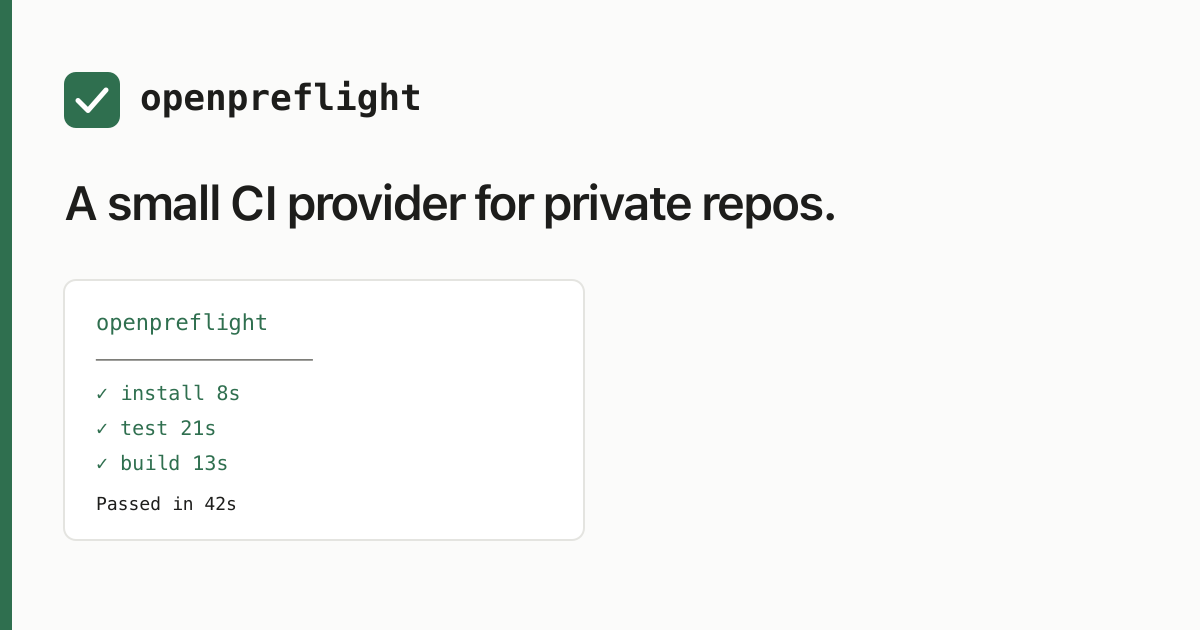
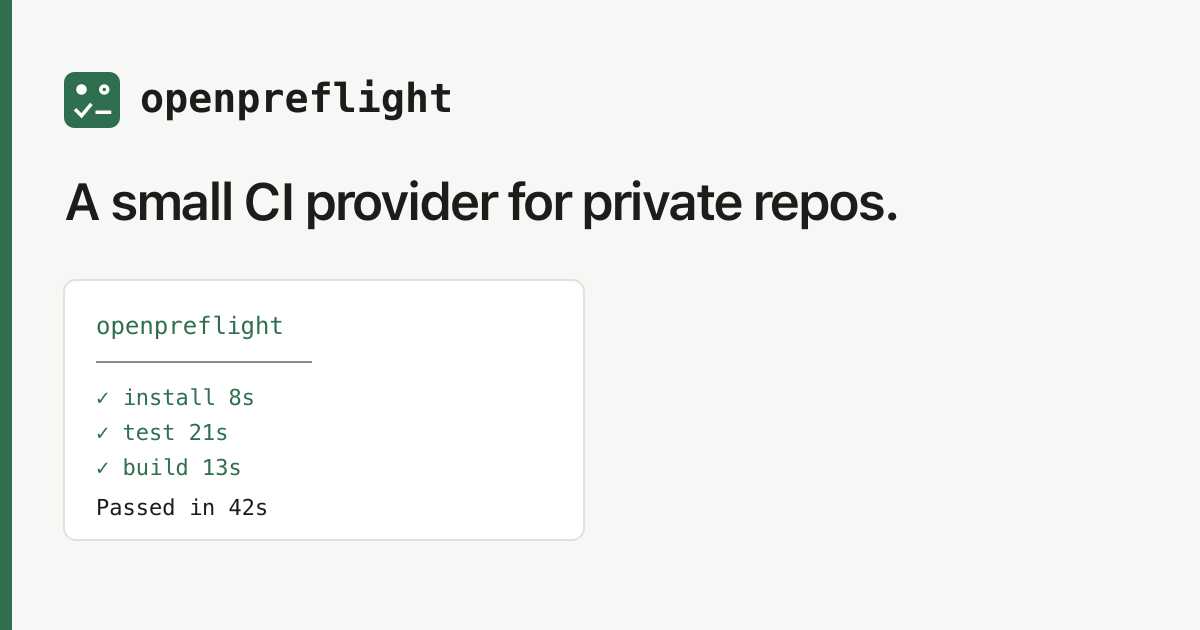
Adopt the status-quad mark for docs brand assets.
Keep favicons, Starlight logos, and Open Graph cards aligned with the website mark.

diff --git a/src/lib/og.ts b/src/lib/og.ts
@@ -2,7 +2,14 @@
  * Inner-page Open Graph cards. Splash keeps `public/og.png`.
  * SVG → PNG through sharp; no extra dependency, no Chrome.
  */
+import { readFileSync } from "node:fs";
+import { join } from "node:path";
 import sharp from "sharp";
+
+const mark = readFileSync(
+  join(process.cwd(), "public/favicon.svg"),
+  "utf8",
+).replace("<svg ", '<svg x="80" y="72" width="72" height="72" ');
 
 export type OgPage = {
   slug: string;
@@ -58,11 +65,7 @@ export async function renderOgPng(page: OgPage): Promise<Buffer> {
   const svg = `<svg xmlns="http://www.w3.org/2000/svg" width="1200" height="630" viewBox="0 0 1200 630">
   <rect width="1200" height="630" fill="#f7f8f5"/>
   <rect width="12" height="630" fill="#2f6f4f"/>
-  <g transform="translate(80,72) scale(2.25)">
-    <rect width="32" height="32" rx="7" fill="#2f6f4f"/>
-    <path d="M8 16.5 L13.5 22 L21.5 12.5 H25.5" fill="none" stroke="#ffffff" stroke-width="2.75" stroke-linecap="round" stroke-linejoin="round"/>
-    <path d="M20.25 9.25 L21.5 11.75 L22.75 9.25" fill="none" stroke="#ffffff" stroke-width="2.25" stroke-linecap="round" stroke-linejoin="round"/>
-  </g>
+  ${mark}
   <text x="80" y="210" fill="#2f6f4f" font-family="ui-monospace, SFMono-Regular, Menlo, monospace" font-size="20" font-weight="600" letter-spacing="0.14em">${esc(page.kicker.toUpperCase())}</text>
   <text x="80" y="292" fill="#1a1d19" font-family="ui-sans-serif, system-ui, sans-serif" font-size="${headlineSize}" font-weight="600">${headlineTspans}</text>
   <text x="80" y="${descY}" fill="#5f665c" font-family="ui-sans-serif, system-ui, sans-serif" font-size="26">${descTspans}</text>

diff --git a/design.md b/design.md
@@ -49,8 +49,9 @@ spacing:
 components:
   mark:
     description: >
-      Rounded square (#2f6f4f) with a white runway-check: diagonal check that levels into a
-      short horizontal runway, plus a caret above the apex. No wordmark inside the favicon.
+      Rounded square (#2f6f4f) with four white Check Run status glyphs on a strict grid:
+      solid dot (running) and ring (pending) on top; check (passed) and dash (skipped) below.
+      No wordmark inside the favicon.
   check-run-panel:
     description: >
       The product's only hero artifact: monospace Check Run output (pass greens, muted sep).
@@ -89,9 +90,9 @@ startup pitch deck.
 
 ## Mark / favicon
 
-The mark is a **runway-check** on forest green: a checkstroke that finishes as a short runway,
-with a caret at the apex (preflight / takeoff). Favicon and apple-touch use the mark only.
-Starlight/docs may show mark + title text separately.
+The mark is a **status quad** on forest green: solid dot (running) and ring (pending) on
+top; check (passed) and dash (skipped) below. Its simple geometry remains distinct at favicon size.
+Favicon and apple-touch use the mark only. Starlight/docs may show mark + title text separately.
 
 ## Website (marketing)
 
